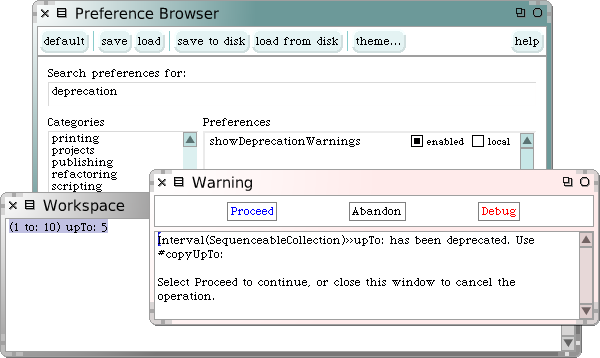
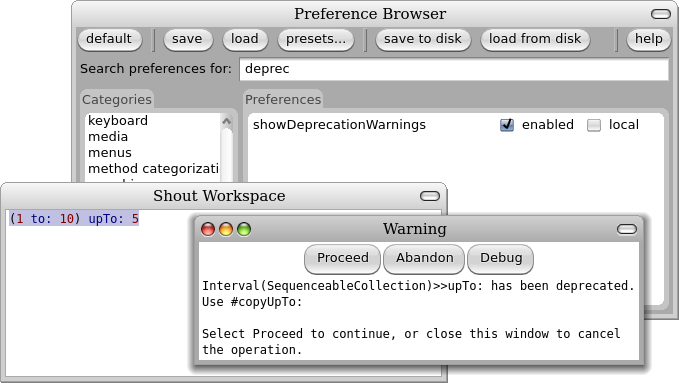
some pharo migration and notes
git-svn-id: https://www.iam.unibe.ch/scg/svn_repos/SqueakByExample/PharoBook@27361 54883e8d-cf1d-0410-83d6-f114b9419f37

diff --git a/Exceptions/Exceptions.tex b/Exceptions/Exceptions.tex
@@ -10,6 +10,7 @@
 % 2008-11-29 - Damien Pollet fixes
 % 2008-12-13 - Oscar revised
 % 2009-03-18 - Stef extended
+% 2009-06-17 - Oscar migrated to Pharo
 
 %=================================================================
 \ifx\wholebook\relax\else
@@ -37,10 +38,12 @@
 	\sloppy
 \fi
 
+%:===> TO BE INDEXED! <===
+
 %=================================================================
 \chapter{Handling exceptions}
 
-\on{I am editing this chapter. Started (again) March 3, 2009.}
+\on{I have the lock}
 
 %=================================================================
 
@@ -48,17 +51,17 @@ All applications have to deal with exceptional situations.
 Arithmetic errors may occur (division by zero), unexpected situations may arise (file not found), or resources may be exhausted (network down, disk full, \etc).
 The old-fashioned solution is to have operations that fail return a special \emph{error code}\,---\,client code must then check the return value of each operation, and take special action to handle errors.
 
-Modern programming languages, including \squeak, instead offer a dedicated exception-handling mechanism that greatly simplifies the way in which exceptional situations are signaled and handled.
-Before ANSI Smalltalk (1996), several  exception handling mechanisms existed, often incompatible each other. \squeak essentially uses the ANSI standard, which we present in this chapter from a user perspective.
+Modern programming languages, including \st, instead offer a dedicated exception-handling mechanism that greatly simplifies the way in which exceptional situations are signaled and handled.
+Before ANSI \st (1996), several  exception handling mechanisms existed, largely incompatible each other. \pharo essentially uses the ANSI standard, which we present in this chapter from a user perspective.
 
 In a nutshell, different classes of \emph{exceptions} are specified to cover the unusual situations that may arise.
 Normal code does not clutter the main logic flow with checks for error codes, but specifies instead an \emph{exception handler} to ``catch'' exceptions.
 When something goes wrong, the corresponding exception is \emph{signaled}, capturing essential information about the offending context.
 This interrupts the main flow of execution, and allows the exception handler to decide what to do next.
 
-\squeak's exception-handling mechanism is particularly expressive and flexible, covering a wide range of possibilities. Exception handlers can be used to \emph{ensure} that certain actions take place even if something goes wrong, or to take action only if something goes wrong.
+\pharo's exception-handling mechanism is particularly expressive and flexible, covering a wide range of possibilities. Exception handlers can be used to \emph{ensure} that certain actions take place even if something goes wrong, or to take action only if something goes wrong.
 Like everything in \st, exceptions are objects, and respond to a number of different messages.
-A handler not only has the possibility to specify an alternative action to perform, but it may also ask the exception object \emph{resume} the interrupted operation, to \emph{retry} the operation, to \emph{pass} the exception on to another handler, or even to \emph{reraise} a completely different exception.
+A handler not only has the possibility to specify an alternative action to perform, but it may also ask the exception object to \emph{resume} the interrupted operation, to \emph{retry} the operation, to \emph{pass} the exception on to another handler, or even to \emph{reraise} a completely different exception.
 
 With the help of a series of examples, we shall explore all of these possibilities, and we will also take a brief look into the internal mechanics of exceptions and exception handlers.
 
@@ -75,7 +78,7 @@ Consider the following example, which creates an image file from a screenshot ta
 \needlines{4}
 \begin{code}{}
 | writer |
-[	writer := GIFReadWriter on: (FileStream newFileNamed: 'Squeak.gif').
+[	writer := GIFReadWriter on: (FileStream newFileNamed: 'Pharo.gif').
 	writer nextPutImage: (Form fromUser)
 ]	ensure: [ writer ifNotNil: [ writer close ] ]
 \end{code}
@@ -111,7 +114,7 @@ The message \ct{ensure:} returns the value of the block to which this message is
 The message \ct{ifCurtailed:} is typically used for ``cleaning'' actions. It is similar to \ct{ensure:}, but instead of ensuring that its argument block is evaluated even if the receiver terminates abnormally, \ct{ifCurtailed:} does so \emph{only} if the receiver terminates abnormally by signaling an exception or by performing a non-local return.
 
 In the following example, the argument to \ct{ifCurtailed:} performs an early return, so the following statement is never reached.
-In Smalltalk, this is referred to as a \emph{non-local return}.
+In \st, this is referred to as a \emph{non-local return}.
 Nevertheless the argument block will be executed.
 \needlines{4}
 \begin{code}{}
@@ -138,7 +141,7 @@ Here are some  examples of \lct{ifCurtailed:} usage where the text displayed in 
 [1 / 0] ifCurtailed: [Transcript show: 'This is displayed after selecting Abandon in the debugger'; cr]
 \end{code}
 
-Although \ct{ifCurtailed:} and \ct{ensure:} are implemented as primitives in Squeak, in principle \ct{ifCurtailed:} could be implemented using \ct{ensure:} as follows:
+Although \ct{ifCurtailed:} and \ct{ensure:} are implemented as primitives in \pharo, in principle \ct{ifCurtailed:} could be implemented using \ct{ensure:} as follows:
 
 \begin{code}{}
 ifCurtailed: curtailBlock
@@ -175,7 +178,7 @@ Both \ct{ensure:} and \ct{ifCurtailed:} offer simple mechanisms to handle abnorm
 \noindent
 The code that detects an abnormal situation and signals an exception (\lct{\emph{aBlock}}) is called a \emph{protected block}, and the block that is evaluated if an exception is signaled (\lct{\emph{handlerAction}}) is  an \emph{exception handler}.
 
-ANSI Smalltalk defines this message as follows:
+ANSI \st defines this message as follows:
 \begin{quote}
 ``The receiver is evaluated such that if during its evaluation an exception corresponding to selector is signaled then action will be evaluated. The result of evaluating the receiver is returned.''
 \end{quote}
@@ -207,10 +210,10 @@ It is important to understand  that the message \ct{on:do:} defines the scope wh
 Without exceptions, the only way to handle the case that a method may fail to produce an expected result is to introduce explicit error codes as possible return values. In fact, in languages like C, code is littered with checks for such error codes, thus obscuring the main application logic.
 Error codes are also fragile in the face of evolution: if error codes change, then all clients must be adapted to take the new codes into account. By using exceptions instead of error codes, the programmer is freed from the task of explicitly checking each return value, and the program logic stays uncluttered.
 
-If \squeak would not provide exception-handling support, then the tiny example we saw in the previous section would look something like this:
+If \st would not provide exception-handling support, then the tiny example we saw in the previous section would look something like this:
 
 \begin{code}{| source destination fromStream toStream contents result success failure |}
-"Pseudo-code -- luckily Squeak does not work like this. Without the 
+"Pseudo-code -- luckily Smalltalk does not work like this. Without the 
 benefit of exception handling we must check error codes for each operation."
 source := 'log.txt'.
 destination := 'log-backup.txt'.
@@ -253,14 +256,14 @@ Exceptions are organized in a class hierarchy. Conceptually, the exceptions \ct{
 
 \begin{figure}[ht]\centering
         \includegraphics[width=.5\linewidth]{SimpleHierarchy}
-        \caption{A small part of the Squeak exception hierarchy.\figlabel{hierarchy}}
+        \caption{A small part of the \pharo exception hierarchy.\figlabel{hierarchy}}
 \end{figure}
 
-In Smalltalk, exceptions are objects just like any other entity. An exception is an instance of an exception class which is part of a hierarchy of exceptions.
+In \st, exceptions are objects just like any other entity. An exception is an instance of an exception class which is part of a hierarchy of exceptions.
 
 \ct{FileStreamException} is a class and adds information to characterize the specific abnormal situation it describes. \ct{FileStreamException} defines the \ct{fileName} instance variable which contains the name of the file that signaled the exception. The root of the exception class hierarchy is \ct{Exception}, which is a direct subclass of \ct{Object}.
 
-In some versions of Squeak, \ct{Exception} has 10 direct subclasses and 93 indirect subclasses!
+In some versions of \pharo, \ct{Exception} has 10 direct subclasses and 93 indirect subclasses!
 \begin{code}{} % NB: Fragile -- should not be a test
 Exception subclasses size     --> 10
 Exception subclasses 	        --> {Error . IllegalResumeAttempt . Notification . ProgressInitiationException . Abort . UnhandledError . TestFailure . Halt . MCNoChangesException . RefactoringWarning}
@@ -307,7 +310,7 @@ Transcript show: result; cr
 
 By default, every exception offers a description to be used by development tools to report abnormal situations in a clear and comprehensible manner. In that spirit, any exception instance answers to the message \ct{description}. Moreover, the descriptive message may be set  using the message \ct{messageText:} or by signaling the exception using \ct{signal:}.
 
-Another example can be seen in the \ct{doesNotUnderstand:} mechanism, a pillar of the reflective capabilities of Smalltalk. Whenever an object is sent a message that it does not understand, the VM will (eventually) send it the message \ct{doesNotUnderstand:} with a literal argument representing the offending message. The default implementation of this method, defined in the class \ct{Object}, simply signals a \ct{MessageNotUnderstood} exception, causing a debugger to be opened at that point in the execution.
+Another example can be seen in the \ct{doesNotUnderstand:} mechanism, a pillar of the reflective capabilities of \st. Whenever an object is sent a message that it does not understand, the VM will (eventually) send it the message \ct{doesNotUnderstand:} with a literal argument representing the offending message. The default implementation of this method, defined in the class \ct{Object}, simply signals a \ct{MessageNotUnderstood} exception, causing a debugger to be opened at that point in the execution.
 This method illustrates the need to store specific information such as the receiver and the message not understood.
 
 \needlines{4}
@@ -324,7 +327,7 @@ Object>>>doesNotUnderstand: aMessage
 %=================================================================
 \section{Setting breakpoints}
 
-In Smalltalk it is possible to set a breakpoint within a method by sending the message \ct{self halt}. The method \ct{halt}, implemented in \ct{Object}, makes use of exceptions to open a debugger at the location of the breakpoint.
+In \st it is possible to set a breakpoint within a method by sending the message \ct{self halt}. The method \ct{halt}, implemented in \ct{Object}, makes use of exceptions to open a debugger at the location of the breakpoint.
 The method \ct{halt} is defined as follows:
 
 \needlines{6}
@@ -379,19 +382,19 @@ StandardToolSet>>>debug: aProcess context: aContext label: aString contents: con
 
 We will now have a look at how block handlers are selected and fetched from the method call stack to handle a signaled exception. But before we do this, we need to understand how the control flow of a program is internally represented in the virtual machine.
 
-At each point in the execution of a program, the method call stack of a program is defined as a sequential list of activation contexts. Each activation context represents a method invocation and contains the information needed for its execution, namely its receiver, its arguments, and its local variables. It also contains a reference to the context that triggered its creation, \ie the activation context associated to the calling method. In Squeak, the classes \ct{MethodContext} and \ct{BlockContext} model this information. Activation contexts are linked to each other and form a chain describing the method call stack.
+At each point in the execution of a program, the method call stack of a program is defined as a sequential list of activation contexts. Each activation context represents a method invocation and contains the information needed for its execution, namely its receiver, its arguments, and its local variables. It also contains a reference to the context that triggered its creation, \ie the activation context associated to the calling method. In \pharo, the classes \ct{MethodContext} and \ct{BlockContext} model this information. Activation contexts are linked to each other and form a chain describing the method call stack.
 
 Suppose that we attempt to open a \ct{BookMorph} on a non-existent file.
 A \ct{FileDoesNotExistException} will be signaled, and the method call stack will contain the activation contexts created by the methods \ct{openFromFile:}, \ct{oldFileNamed:}, and \ct{signal} (\figref{stack}):
 
 \begin{figure}[ht]\centering
         \includegraphics[width=.9\linewidth]{Stack}
-        \caption{A Squeak method call stack.\figlabel{stack}}
+        \caption{A \pharo method call stack.\figlabel{stack}}
 \end{figure}
 
-Since everything is an object in Smalltalk, we should expect activation contexts to also be objects.
-Actually, certain Smalltalk dialects and implementations use the native C execution stack of the virtual machine to avoid creating objects all the time.
-The Squeak virtual machine does not do this, but instead creates the list of activation context objects only on demand, for example, whenever the debugger is started.
+Since everything is an object in \st, we should expect activation contexts to also be objects.
+Actually, certain \st dialects and implementations use the native C execution stack of the virtual machine to avoid creating objects all the time.
+The \pharo virtual machine does not do this, but instead creates the list of activation context objects only on demand, for example, whenever the debugger is started.
 
 When we send \lct{\emph{aBlock} on: \emph{ExceptionClass} do: \emph{anHandler}}, we associate an exception handler (\lct{\emph{anHandler}}) to a given class of exceptions (\lct{\emph{ExceptionClass}}) for the activation context of the protected block (\lct{\emph{aBlock}}).
 This information is used to identify and invoke the exception handler whenever an exception is signaled. The handler will be available on the stack, and can be found by traversing the stack starting from the top down to the activation frame where the \ct{on:do:} message has been sent.
@@ -490,7 +493,7 @@ result := [Error signal]
 result --> 7
 \end{code}
 
-The ANSI standard is not clear regarding the difference between \ct{do: [:ex | 100 ]} and \ct{do: [:ex | ex return: 100]} to return a value. We suggest you to use \ct{return:} since it is more intention-revealing, even if these two expressions are equivalent in Squeak.
+The ANSI standard is not clear regarding the difference between \ct{do: [:ex | 100 ]} and \ct{do: [:ex | ex return: 100]} to return a value. We suggest you to use \ct{return:} since it is more intention-revealing, even if these two expressions are equivalent in \pharo.
 
 A variant of \ct{return:} is the message \ct{return}, which returns \ct{nil}. 
 
@@ -576,9 +579,12 @@ The usefulness of resuming a control flow is illustrated by the class \ct{Instal
 Installer>>>installQuietly: packageNameCollectionOrDetectBlock 
 	self package: packageNameCollectionOrDetectBlock. 
 	 [ self install ] on: Warning do: [ :ex | ex resume ]. 
-%	 [ self install ] on: Warning do: [ :ex | ex resume: true ]. 
 \end{code}
+%	 [ self install ] on: Warning do: [ :ex | ex resume: true ]. 
 % The code actually says resume: true, but Keith Hodges confirms that this is not necessary
+
+
+%:===> CONVERT USER INTERACTION TO REAL EXAMPLE <===
 
 Another typical situation can be seen when an interaction with the user is required, as in the following example:
 \on{should turn this into a real example or a test}
@@ -612,7 +618,7 @@ It is not always a reasonable option to \ct{resume} an exception. For example, t
 \section{Example: deprecation}
 
 \emph{Deprecation} offers a good case study of a simple mechanism built using exceptions.
-This design pattern allows a programmer to mark a method as being ``deprecated'', meaning that it may disappear in a future release and should not be used any more. In Squeak, a method can be marked as deprecated as follows:
+This design pattern allows a programmer to mark a method as being ``deprecated'', meaning that it may disappear in a future release and should not be used any more. In \pharo, a method can be marked as deprecated as follows:
 
 \begin{code}{}
 SequenceableCollection>>>upTo: anObject
@@ -628,7 +634,7 @@ When the message \ct{upTo:} is sent, if the \ct{showDeprecationWarnings} prefere
         \caption{Sending a deprecated message.\figlabel{deprecation}}
 \end{figure}
 
-Deprecation is easily implemented in \squeak in just a few steps.
+Deprecation is easily implemented in \pharo in just a few steps.
 First, we define \ct{Deprecation} as a subclass of \ct{Warning}.
 We should normally consider overriding \ct{isResumable}, \ct{description}, and \ct{defaultAction}. In this case the default implementations are fine:
 
@@ -664,7 +670,7 @@ Object>>>deprecated: anExplanationString
 \section{Passing on exceptions}
 
 To illustrate the remaining possibilities for handling exceptions, we will look at how to implement a generalization of the \ct{perform:} method.
-If we send \ct{perform: aSymbol} to an object, this will cause the message named \ct{aSymbol} to be sent  to that object:
+If we send \lct{perform: \emph{aSymbol}} to an object, this will cause the message named \lct{\emph{aSymbol}} to be sent  to that object:
 \begin{code}{@TEST}
 5 perform: #factorial --> 120    "same as: 5 factorial"
 \end{code}
@@ -789,10 +795,11 @@ The rest of the magic occurs in the class \ct{ExceptionSet}, which has a surpris
 
 \section{How this is implemented?}
 
+%:===> REVISE IMPLEMENTATION SECTION <===
 \on{As an explanation, this part really does not work. I would prefer to leave it out.}
 \sd{no this is really important I did a new pass on it}
 
-Up until now, we presented the use of exceptions in Smalltalk and their power without really saying a word on their implementation
+Up until now, we presented the use of exceptions in \st and their power without really saying a word on their implementation
 at the execution engine level (Virtual Machine). Normally you do not need to know how handler are really looked up at execution time to use exception. Therefore in the first reading you can skip this section. Now if you are curious and really want to know how this is implemented 
 at the Virtual Machine level, this section is for you.  This section will uncover the internal of the Pharo exception mechanism. The mechanism is quite simple, making it worth to know how it operates. This section is a wonderful example on how Pharo can reveal information just by browsing its source code.
 
@@ -810,7 +817,7 @@ BlockContext>>>on: exception do: handlerAction
 
 When reading the code we learn two things: First, this method is implemented as a primitive, which means that  a function defined in the virtual machine is executed, when this method is invoked. Second, the method body simply returns the value of the block receiver and sets the variable \ct{handlerActive} to true. Surprinsingly simple. 
 
-A primitive method as \ct{on:do:} has a body and a primitive number. Normally, the method body is not executed since the method is bound to a function written in C. When the method has to be executed, the C function is executed instead. In case of a failure in the C function, the Smalltalk method body is executed. The method body is then in charge of taking decisions on how to deal with the failure.
+A primitive method as \ct{on:do:} has a body and a primitive number. Normally, the method body is not executed since the method is bound to a function written in C. When the method has to be executed, the C function is executed instead. In case of a failure in the C function, the \st method body is executed. The method body is then in charge of taking decisions on how to deal with the failure.
 Here the method \ct{on:do:} is associated with the primitive number 199. This number is important to understand the following. 
 
 So you are puzzled. Where the argument of the \ct{on:do:} method are then stored. Let's look at the instance variables of the class \ct{BlockContext}. 
@@ -841,7 +848,7 @@ The last statement is a 2-length array that contains the exception type and the 
 \paragraph{Finding Handlers.}
 Now that we know how the information is stored, let's have a look at how it is looked up at runtime. 
 
-First, we might think that the primitive 199 is complex to write. But in our case, the C function that corresponds to the primitive 199 \emph{always} fails\footnote{The source code of the primitive is \ct{Interpreter>>>primitiveMarkHandlerMethod} in the VMMaker Squeaksource project}. Its definition is therefore trivial. The body of \ct{on:do:} is therefore always executed since the primitive fails. An important point is that the execution of the primitive marks the executing context with 199, the primitive number. 
+First, we might think that the primitive 199 is complex to write. But in our case, the C function that corresponds to the primitive 199 \emph{always} fails\footnote{The source code of the primitive is \ct{Interpreter>>>primitiveMarkHandlerMethod} in the VMMaker \sqsrc project}. Its definition is therefore trivial. The body of \ct{on:do:} is therefore always executed since the primitive fails. An important point is that the execution of the primitive marks the executing context with 199, the primitive number. 
 
 \begin{code}{}
 primitiveMarkHandlerMethod
@@ -897,23 +904,27 @@ So in summary the virtual machine finds the activation contexts that correspond 
 
 
 
-%I could not get the following. \ugh{Method contexts are objects that may be manipulated as any plain objects. They represent a linked list of a which may be shortened a anytime. This is the principle of exception. In theory, it is not necessary to hardcode functions dedicated to exceptions in the virtual machine. This is a superb example of the Smalltalk flexibility.}
+%I could not get the following. \ugh{Method contexts are objects that may be manipulated as any plain objects. They represent a linked list of a which may be shortened a anytime. This is the principle of exception. In theory, it is not necessary to hardcode functions dedicated to exceptions in the virtual machine. This is a superb example of the \st flexibility.}
 
 \section{Error and Notification}
+
+%:===> CANCEL ERROR AND NOTIFICATION SECTION ? <===
+
+
 \sd{probably redundant}
 \on{not very interesting or useful --- I would leave this out too}
 
-\ugh{First of all, let us have a look at the different kind of exceptions offered by Smalltalk. Among the exceptions that may be signaled, we make a distinction between errors and notifications. The first tells the programmer that the program falls into an abnormal situation. The latter tells that a particular event occurred but if no action is taken, the program will continue to execute. Notifications are often used as alters (\ct{Warning} class) which are used to notify abnormal but non-lethal behavior. Note that C\# and Java propose a similar use of exceptions.}
+\ugh{First of all, let us have a look at the different kind of exceptions offered by \st. Among the exceptions that may be signaled, we make a distinction between errors and notifications. The first tells the programmer that the program falls into an abnormal situation. The latter tells that a particular event occurred but if no action is taken, the program will continue to execute. Notifications are often used as alters (\ct{Warning} class) which are used to notify abnormal but non-lethal behavior. Note that C\# and Java propose a similar use of exceptions.}
 
-Graphically user interfaces makes a great use of notifications. In Squeak, \ct{ProgressNotification} is used to move the progress bar forward when a task is being realized. \ct{ProgressNotification} is a subclass of \ct{Notification}.
+Graphically user interfaces makes a great use of notifications. In \pharo, \ct{ProgressNotification} is used to move the progress bar forward when a task is being realized. \ct{ProgressNotification} is a subclass of \ct{Notification}.
 
 \begin{figure}[ht]\centering
         \includegraphics[width=.6\linewidth]{hierarchy}
-        \caption{An except of the Squeak exception hierarchy.\figlabel{hierarchy}
+        \caption{An except \on{?} of the \pharo exception hierarchy.\figlabel{hierarchy}
         \on{Kill Object. Which of these are resumable? Why this chart?}}
 \end{figure}
 
-Compared with other languages, Smalltalk features an interesting ability for its exceptions: the control flow that signaled an exception may be resumed in the exception handler that caught the exception. The control flow of the application before the exception was signaled may then continue. Of course, it is the responsibility of the exception handler to update the system in order to give sense to an exception resume.
+Compared with other languages, \st features an interesting ability for its exceptions: the control flow that signaled an exception may be resumed in the exception handler that caught the exception. The control flow of the application before the exception was signaled may then continue. Of course, it is the responsibility of the exception handler to update the system in order to give sense to an exception resume.
 
 The property of being resumed is orthogonal to the notion of error. An error may be resumable. For example, the class \ct{MessageNotUnderstood} is a subclass of \ct{Error} but it is resumable:
 \on{? discussed above with Halt}
@@ -951,11 +962,13 @@ In this chapter we saw how to use exceptions to signal and handle abnormal situa
 
 \item An exception handler may specify a new block to try by sending \ct{retryUsing:} to the signaled exception, with the new block as its argument. Here too, the handler remains in effect.
 
+%:===> COMPLETE SUMMARY <===
+
 \item \on{add summary for remaining sections}
 
 \end{itemize}
 
-\paragraph{Acknowledgment.}  We gratefully acknowledge Vassili Bykov for the raw material he provided. We also thank Paolo Bonzini, the main developer of GNU Smalltalk, for the Smalltalk implementations of \ct{ensure:} and \ct{ifCurtailed:}.
+\paragraph{Acknowledgment.}  We gratefully acknowledge Vassili Bykov for the raw material he provided. We also thank Paolo Bonzini, the main developer of GNU \st, for the \st implementations of \ct{ensure:} and \ct{ifCurtailed:}.
 
 %=========================================================
 \ifx\wholebook\relax\else
